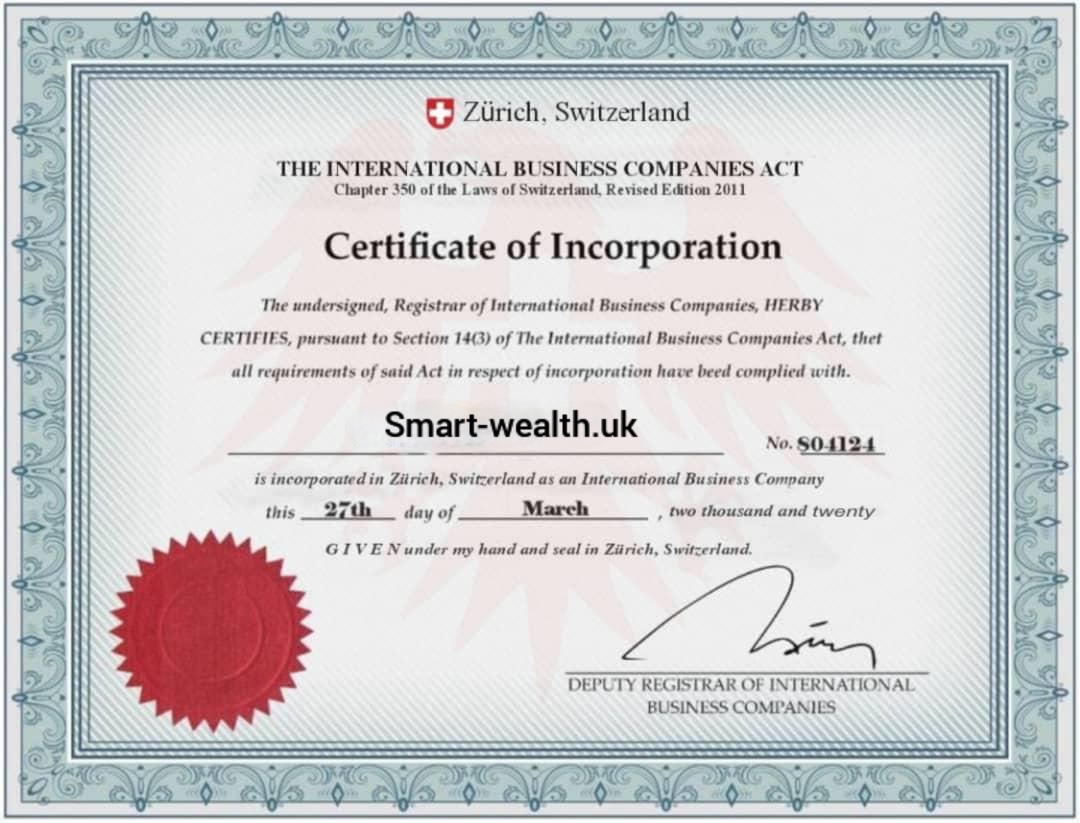
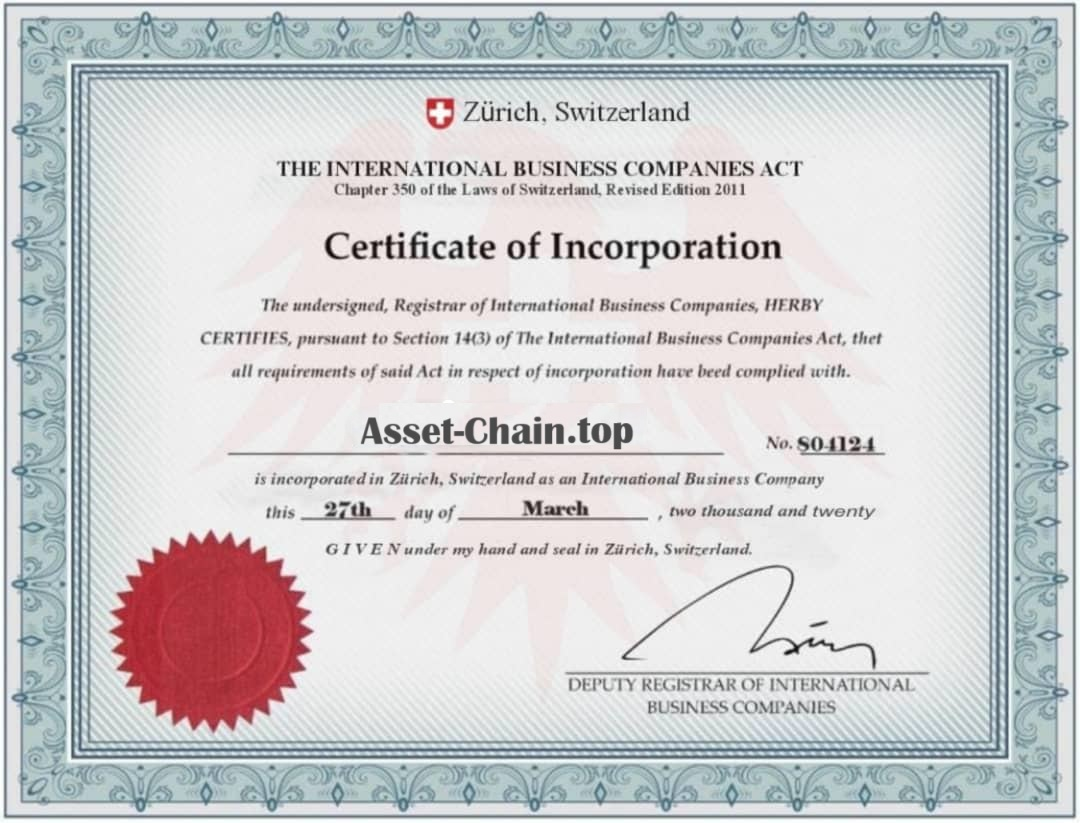
certificate added

Changed region(s): [[0.3361, 0.486, 0.6111, 0.5468]]

diff --git a/resources/views/about-us.blade.php b/resources/views/about-us.blade.php
@@ -47,11 +47,11 @@
                         crypto company with Funds secured in offline wallets.
                         Fully compliant with IT and money laundering security standards.
                     </p>
-{{-- 
+
                     <div class="col-sm-12 col-md-5 col-lg-6 text-center">
                         <img id="about-us" class="img-responsive img-about-us" src="{{asset('images/certificate.jpg')}}  "
                             alt="about us">
-                    </div> --}}
+                    </div>
 
                 </div>
                 <div class="feature-about">
